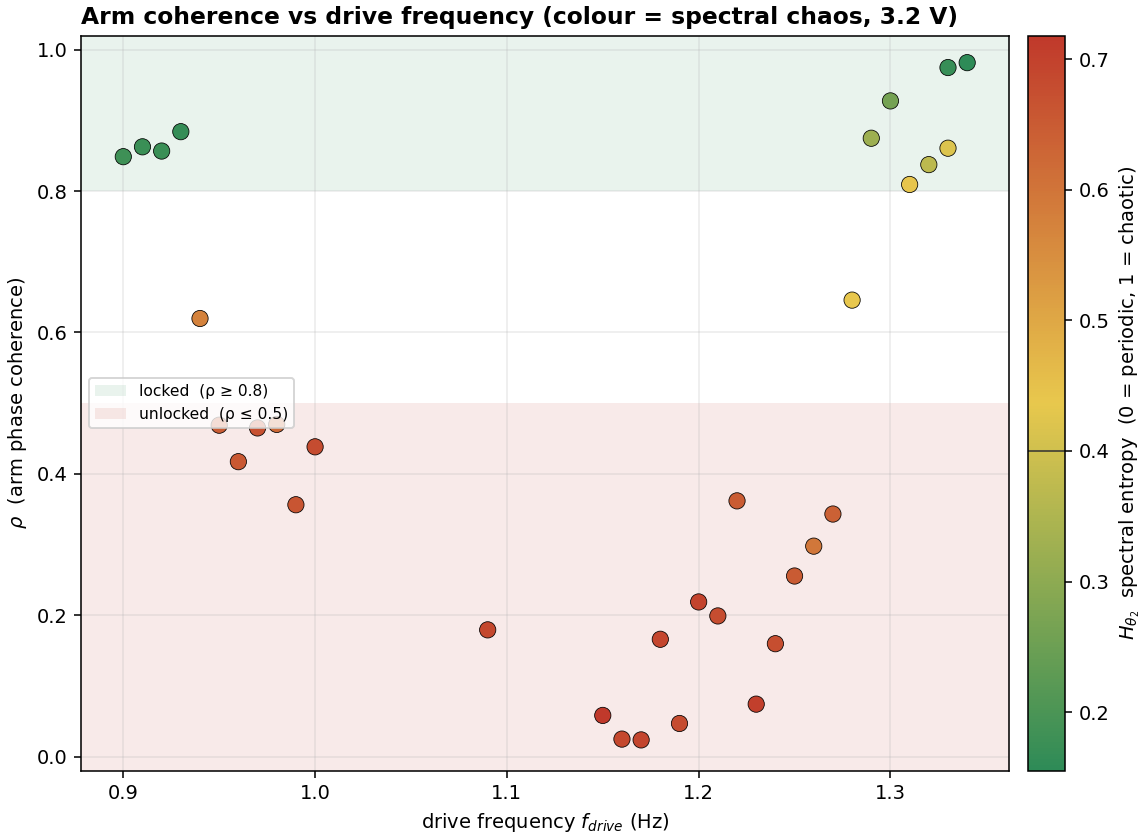
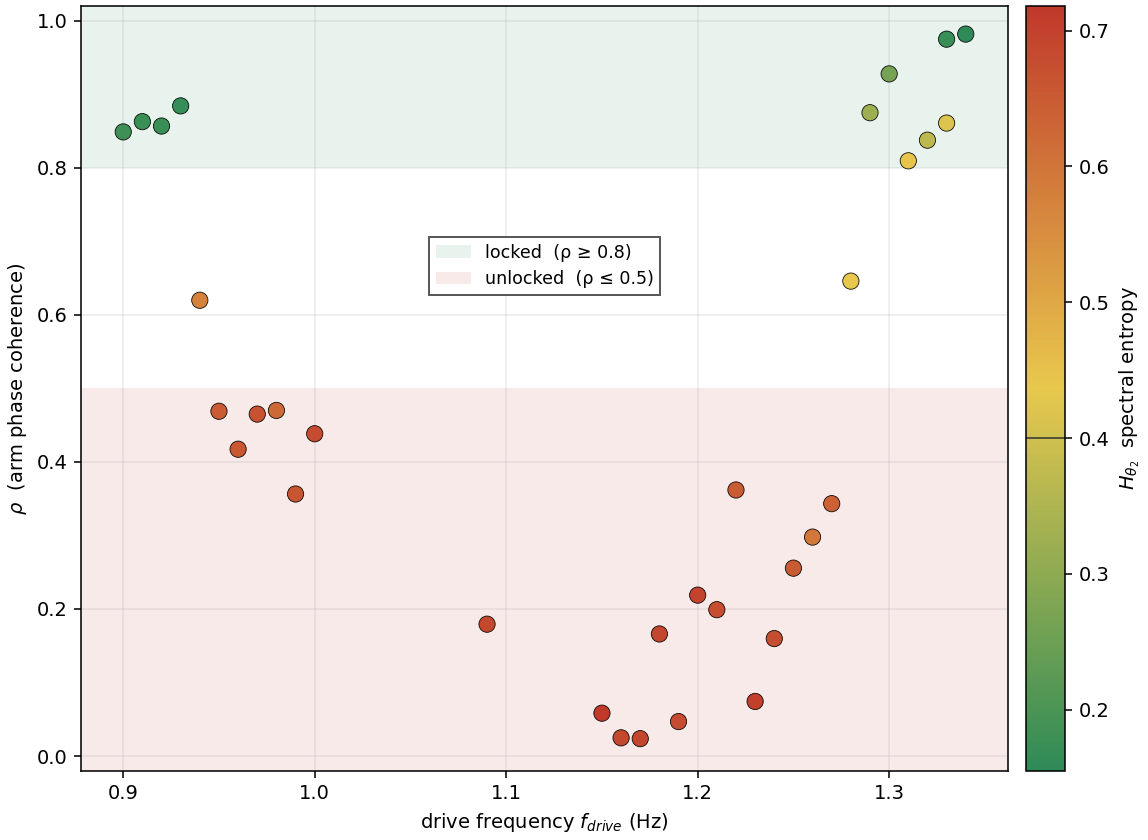
reports/final: polish phase_locking_freq — framed legend, terse colorbar, no title
- legend moved into the clear transition strip (ρ≈0.66), framed (opaque white
  + dark outline) so it reads against the white background
- colorbar label trimmed to 'H_theta2 spectral entropy' (drop verbose
  0=periodic/1=chaotic gloss)
- remove the on-plot title

diff --git a/reports/final/scripts/phase_locking.py b/reports/final/scripts/phase_locking.py
@@ -404,11 +404,13 @@ def run_sweep(voltage, transient_s):
     ax2.set_xlabel(r"drive frequency $f_{drive}$ (Hz)")
     ax2.set_ylabel(r"$\rho$  (arm phase coherence)")
     ax2.set_ylim(-0.02, 1.02); ax2.grid(alpha=0.25)
-    ax2.legend(handles=[lock_band, unlock_band], loc="center left", fontsize=8)
-    ax2.set_title("Arm coherence vs drive frequency (colour = spectral chaos, 3.2 V)",
-                  loc="left", fontweight="bold")
+    # legend in the clear transition strip (ρ≈0.5–0.8), framed so it reads on white
+    leg = ax2.legend(handles=[lock_band, unlock_band], loc="center",
+                     bbox_to_anchor=(0.5, 0.66), fontsize=9, frameon=True,
+                     framealpha=0.95, edgecolor="0.3", fancybox=False)
+    leg.get_frame().set_linewidth(1.0)
     cbar = fig2.colorbar(sc2, ax=ax2, pad=0.02)
-    cbar.set_label(r"$H_{\theta_2}$  spectral entropy  (0 = periodic, 1 = chaotic)")
+    cbar.set_label(r"$H_{\theta_2}$  spectral entropy")
     cbar.ax.axhline(HT, color="0.2", lw=0.8)   # mark the chaos split on the bar
     out2 = os.path.join(FINAL_FIGURES, f"phase_locking_freq_{voltage:g}V.png")
     fig2.savefig(out2, dpi=140); plt.close(fig2)
